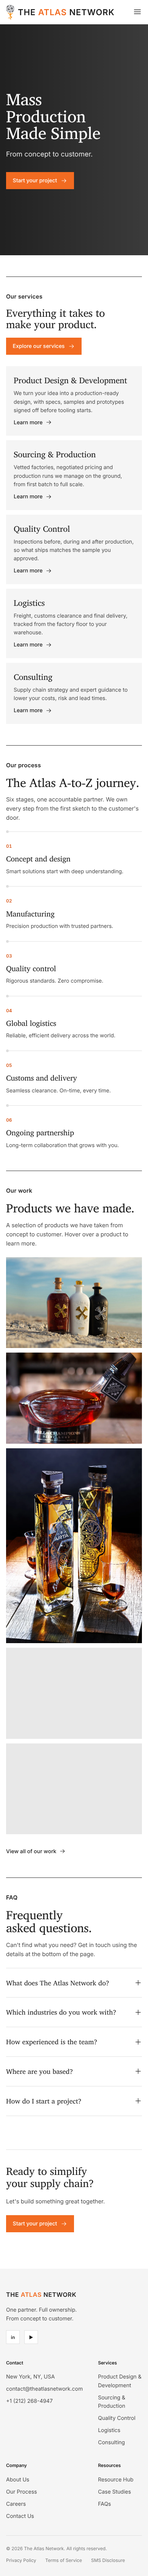
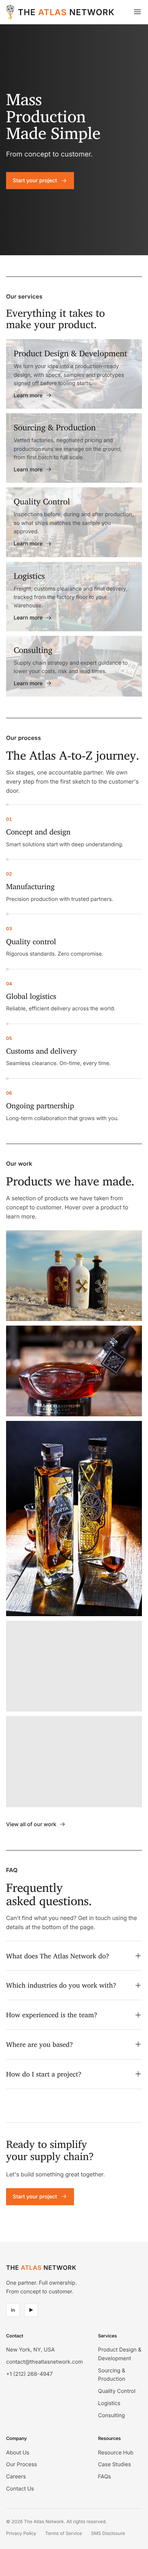
Add service photos and remove Explore our services button
Claude-Session: https://claude.ai/code/session_01YL3eWvwcXdoF4z8yaZ8Eba

diff --git a/index.html b/index.html
@@ -102,7 +102,6 @@
   .section-foot { margin-top: 2rem; }
   .section-head--inline { display: flex; flex-wrap: wrap; align-items: flex-end; gap: 1.25rem 2rem; }
   .section-head--inline h2 { font-size: clamp(1.75rem, 3vw, 2.5rem); }
-  .section-head--inline .btn { margin-bottom: .4rem; }
   .section-head--inline > div { flex: 0 1 auto; }
 
   /* Services: five boxes side by side. Each box shows its photo faintly behind the text:
@@ -226,31 +225,29 @@
     <div class="container">
       <div class="section-head section-head--inline">
         <div><span class="eyebrow">Our services</span><h2>Everything it takes to make your product.</h2></div>
-        <a class="btn" href="/services">Explore our services
-          <svg class="arrow" viewBox="0 0 24 24" fill="none" stroke="currentColor" stroke-width="1.5" stroke-linecap="round" stroke-linejoin="round" aria-hidden="true"><path d="M4 12h15m-6-6 6 6-6 6"/></svg></a>
       </div>
       <div class="services">
-        <a class="service hover-title" href="/services/product-design-development">
+        <a class="service hover-title" style="--img: url('assets/images/services/product-design.webp')" href="/services/product-design-development">
           <h3>Product Design &amp; Development</h3>
           <p>We turn your idea into a production-ready design, with specs, samples and prototypes signed off before tooling starts.</p>
           <span class="link-arrow">Learn more <svg class="arrow" viewBox="0 0 24 24" fill="none" stroke="currentColor" stroke-width="1.5" stroke-linecap="round" stroke-linejoin="round" aria-hidden="true"><path d="M4 12h15m-6-6 6 6-6 6"/></svg></span>
         </a>
-        <a class="service hover-title" href="/services/sourcing-production">
+        <a class="service hover-title" style="--img: url('assets/images/services/sourcing-production.webp')" href="/services/sourcing-production">
           <h3>Sourcing &amp; Production</h3>
           <p>Vetted factories, negotiated pricing and production runs we manage on the ground, from first batch to full scale.</p>
           <span class="link-arrow">Learn more <svg class="arrow" viewBox="0 0 24 24" fill="none" stroke="currentColor" stroke-width="1.5" stroke-linecap="round" stroke-linejoin="round" aria-hidden="true"><path d="M4 12h15m-6-6 6 6-6 6"/></svg></span>
         </a>
-        <a class="service hover-title" href="/services/quality-control">
+        <a class="service hover-title" style="--img: url('assets/images/services/quality-control.webp')" href="/services/quality-control">
           <h3>Quality Control</h3>
           <p>Inspections before, during and after production, so what ships matches the sample you approved.</p>
           <span class="link-arrow">Learn more <svg class="arrow" viewBox="0 0 24 24" fill="none" stroke="currentColor" stroke-width="1.5" stroke-linecap="round" stroke-linejoin="round" aria-hidden="true"><path d="M4 12h15m-6-6 6 6-6 6"/></svg></span>
         </a>
-        <a class="service hover-title" href="/services/logistics">
+        <a class="service hover-title" style="--img: url('assets/images/services/logistics.webp')" href="/services/logistics">
           <h3>Logistics</h3>
           <p>Freight, customs clearance and final delivery, tracked from the factory floor to your warehouse.</p>
           <span class="link-arrow">Learn more <svg class="arrow" viewBox="0 0 24 24" fill="none" stroke="currentColor" stroke-width="1.5" stroke-linecap="round" stroke-linejoin="round" aria-hidden="true"><path d="M4 12h15m-6-6 6 6-6 6"/></svg></span>
         </a>
-        <a class="service hover-title" href="/services/consulting">
+        <a class="service hover-title" style="--img: url('assets/images/services/consulting.webp')" href="/services/consulting">
           <h3>Consulting</h3>
           <p>Supply chain strategy and expert guidance to lower your costs, risk and lead times.</p>
           <span class="link-arrow">Learn more <svg class="arrow" viewBox="0 0 24 24" fill="none" stroke="currentColor" stroke-width="1.5" stroke-linecap="round" stroke-linejoin="round" aria-hidden="true"><path d="M4 12h15m-6-6 6 6-6 6"/></svg></span>
